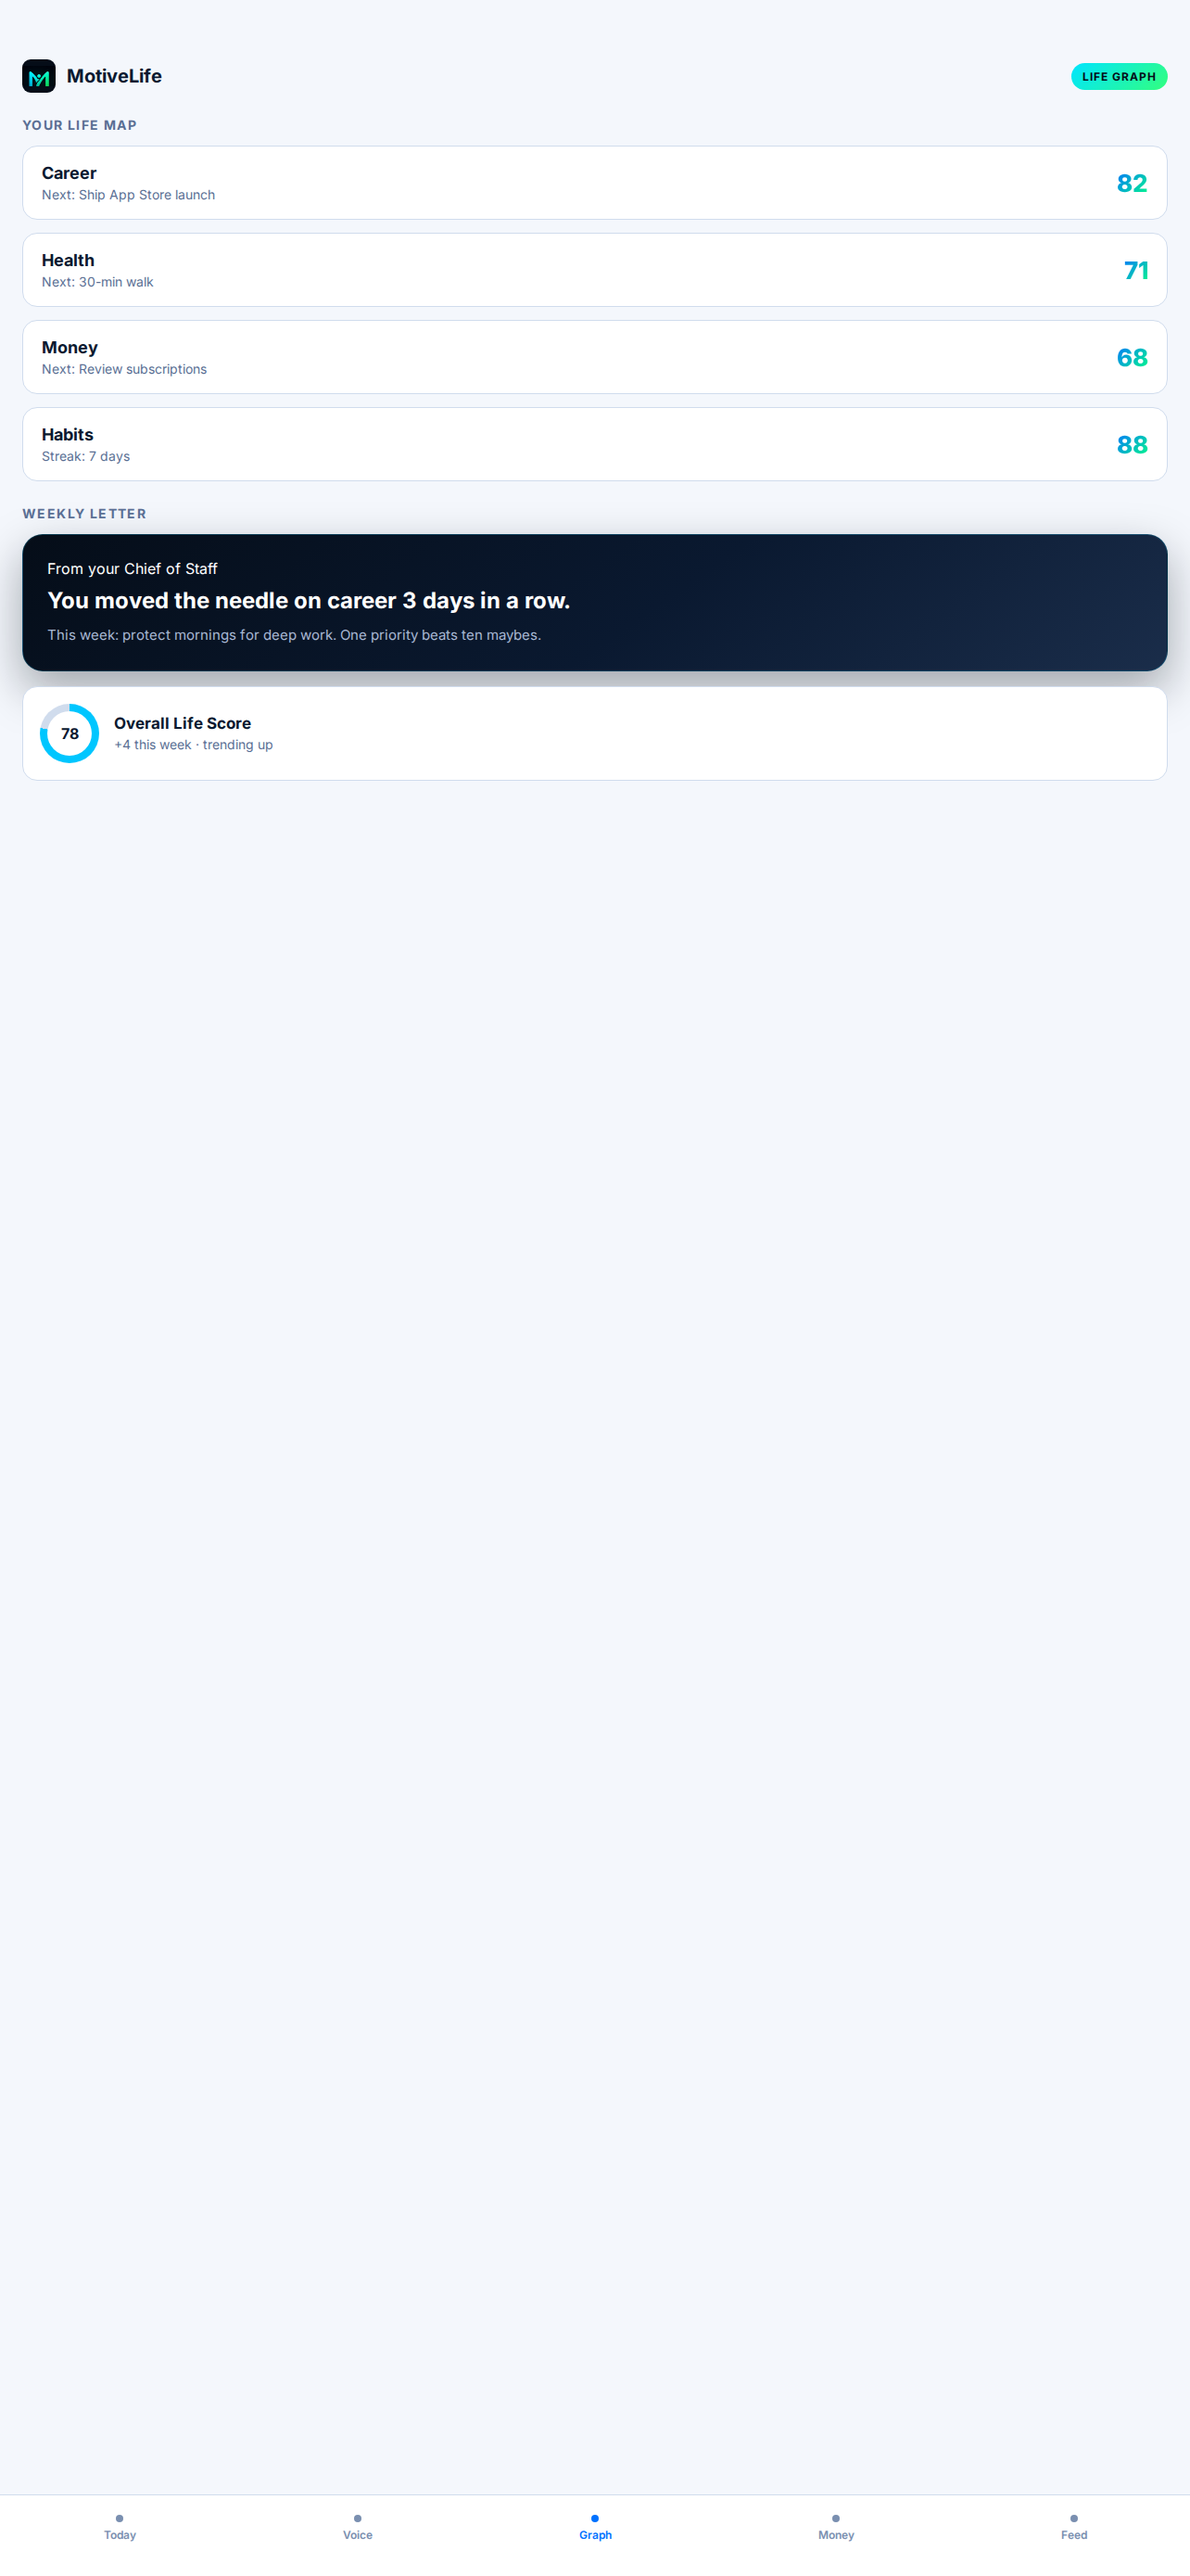
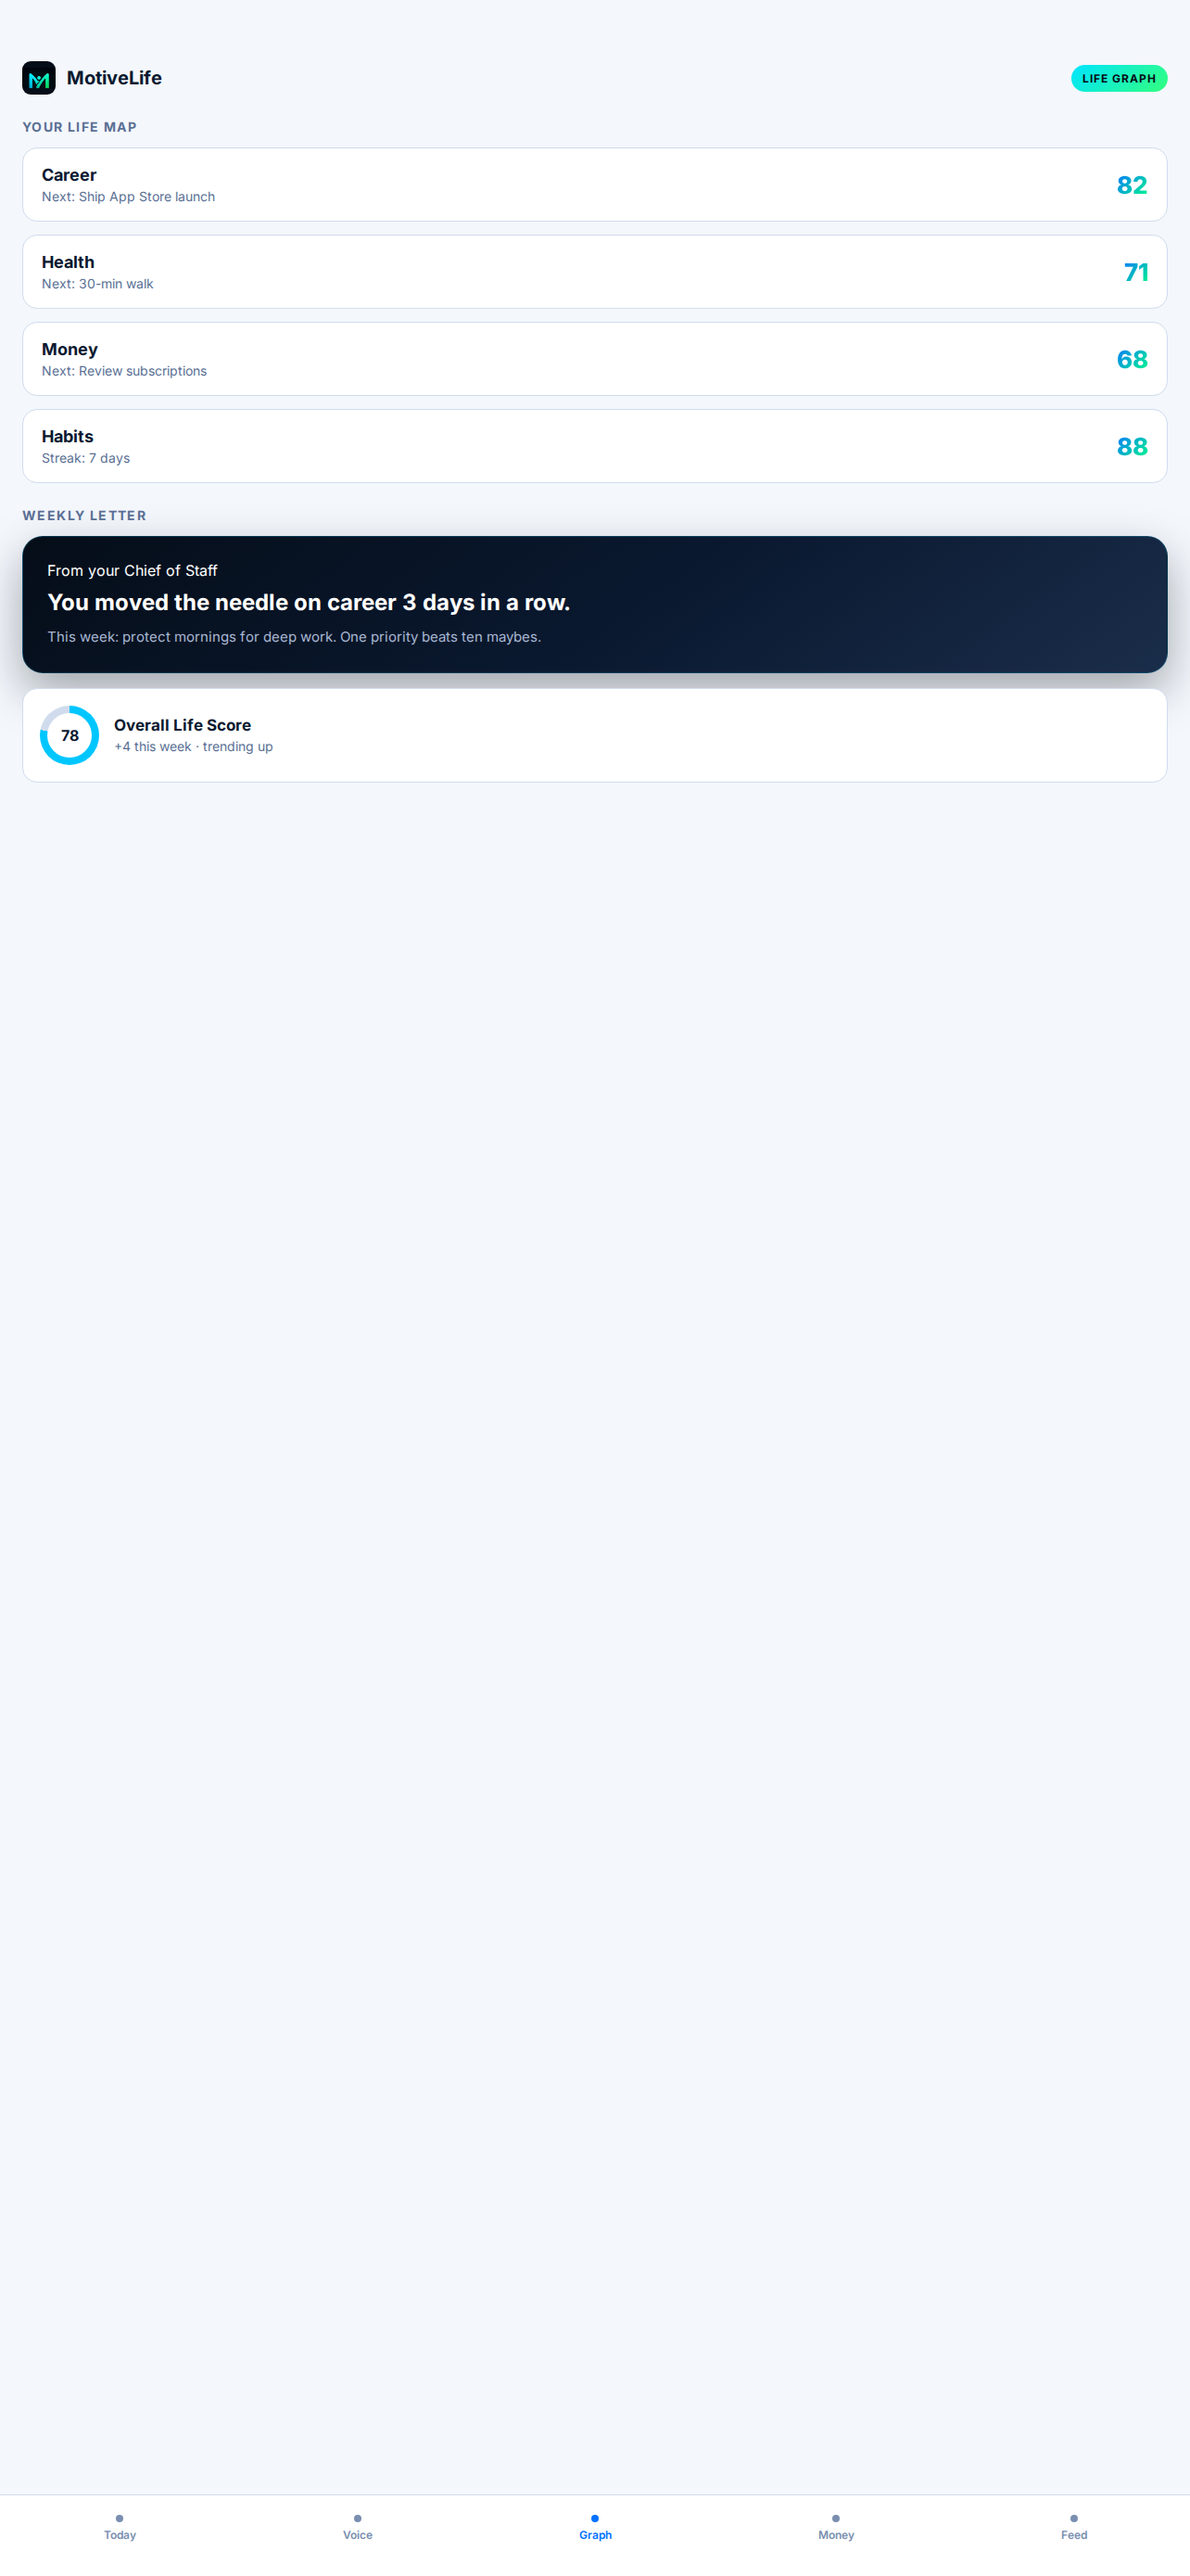
Force-refresh every App Store PNG including iphone-07-pro.
Deleted and regenerated the full asset set so local clones see new
files: listing sizes, IAP review shot, and 1024 subscription image.

Changed region(s): [[0.0312, 0.031, 0.4673, 0.3096], [0.9346, 0.1238, 0.9657, 0.1857], [0.9346, 0.0619, 0.9657, 0.0929]]

diff --git a/apps/mobile/assets/app-store/screenshots.html b/apps/mobile/assets/app-store/screenshots.html
@@ -17,7 +17,7 @@
     }
     /* No fake status bar (Guideline 2.3.10). Spacer only — no 5G/Wi‑Fi/system chrome. */
     .status-spacer {
-      height: 54px;
+      height: 56px;
       flex-shrink: 0;
     }
     .nav {
